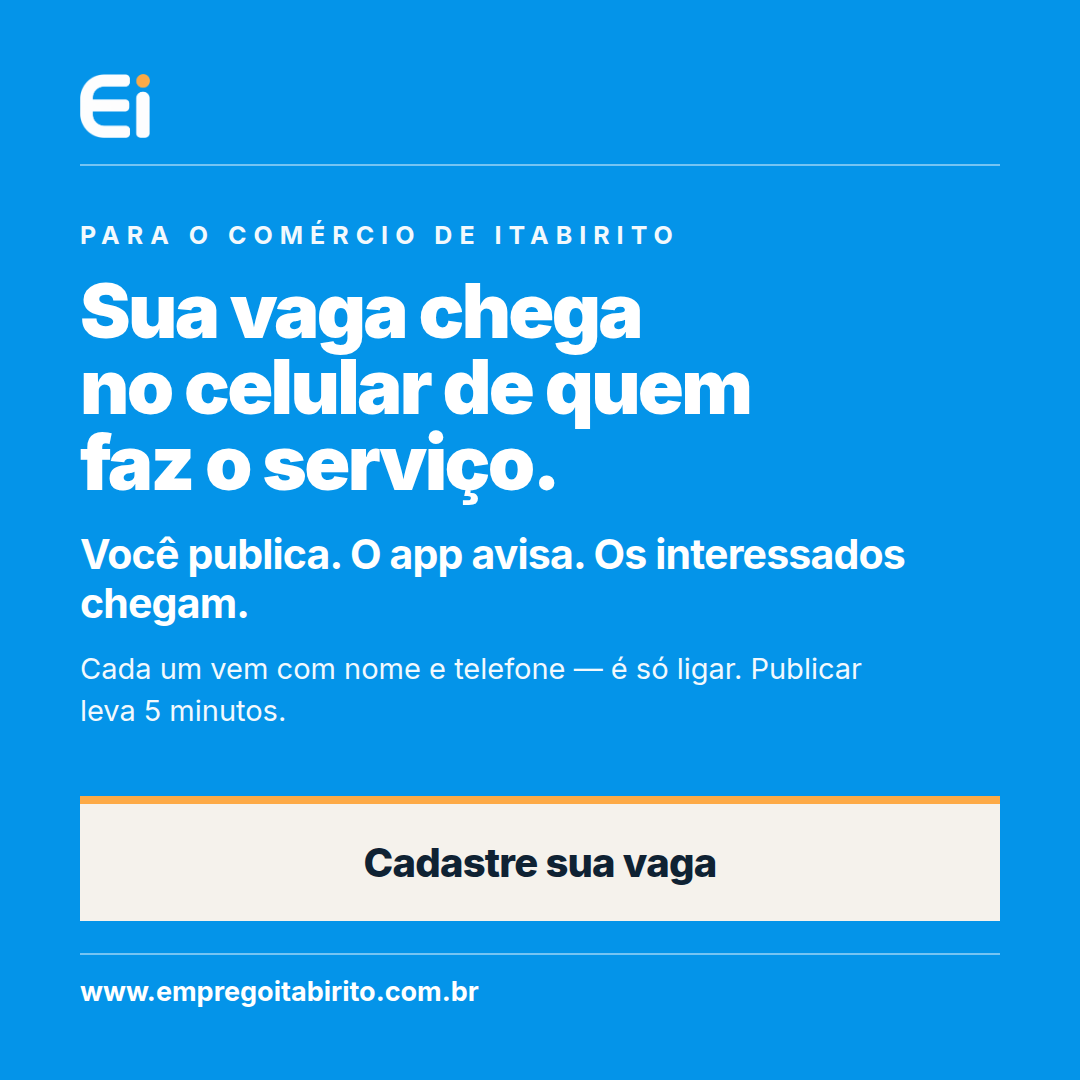
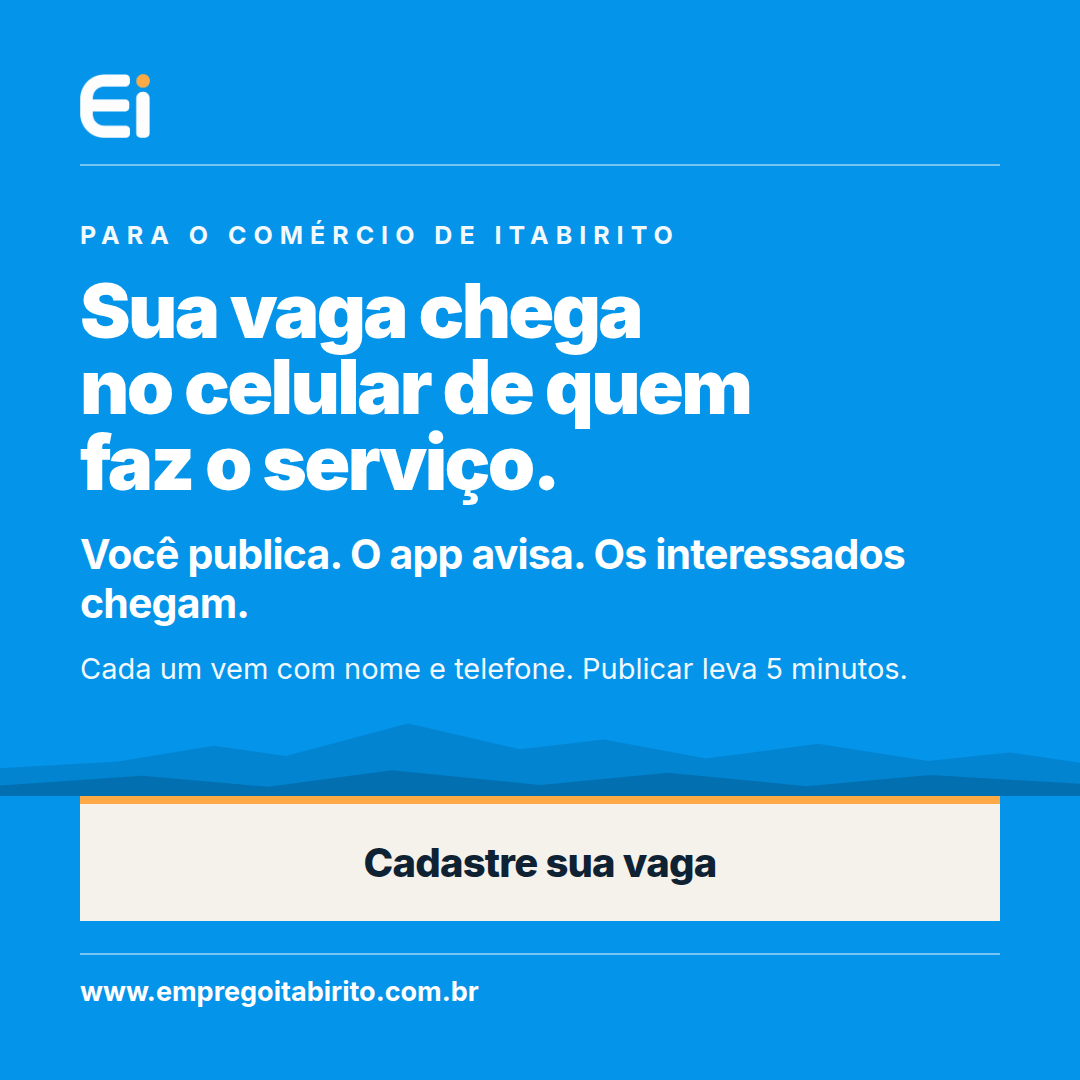
A quarta arte ganha a serra no pé
A dona: "coloque alguma referência de Itabirito." Até aqui a única
referência era a palavra escrita.

Entrou uma silhueta de serra sangrando de borda a borda, com a caixa de
chamada apoiada nela. Azul mais fundo do mesmo tom: é chão, não
ilustração — disputando atenção com o título, seria mais uma coisa para o
olho resolver numa arte que acabou de ser simplificada por esse motivo.

TRÊS TENTATIVAS, E O QUE CADA UMA ENSINOU

1. Cumes iguais e repetidos saíram com cara de zigue-zague, não de morro.
   Serra de verdade tem cume irregular — redesenhada com alturas
   diferentes e um pico dominante.
2. Posta no fundo, em posição absoluta, ficou quase toda escondida atrás
   da caixa: sobrava uma tira de 40px. Passou para o fluxo, encostada
   acima da caixa, que é onde ela vira horizonte.
3. Respeitando a margem do texto, virou faixa decorativa. Horizonte não
   tem margem: sangra os 80px de recuo para cada lado.

E a de sempre: com a serra dentro, a arte TRANSBORDOU — o endereço saiu
cortado embaixo. Medido, ajustado (serra de 104 para 86px, uma linha de
apoio mais curta), e agora são 72px de folga no pé, como nas outras três.

O LEIA-ME REGISTRA QUE A SERRA É GENÉRICA

Não é o Pico do Itabirito traçado de uma foto — é um horizonte de morros
desenhado à mão. Pôr um contorno errado do Pico numa peça que circula na
cidade é pior que não pôr nenhum: quem mora lá reconhece na hora. Fica
escrito para a próxima sessão não "melhorar" isso achando que é o Pico.
[…]

Changed region(s): [[0.0, 0.7028, 1.0, 0.7639], [0.5194, 0.6111, 0.825, 0.6417], [0.0611, 0.6417, 0.275, 0.6722]]

diff --git a/artes/artes.html b/artes/artes.html
@@ -31,6 +31,23 @@ body{background:#333;font-family:Inter,sans-serif;-webkit-font-smoothing:antiali
 .pn{font-size:26px;font-weight:400;line-height:1.35;opacity:.93;margin-top:4px}
 .selo{display:inline-block;background:var(--laranja);color:var(--tinta);font-size:24px;font-weight:800;
       letter-spacing:.13em;text-transform:uppercase;padding:12px 22px;border-radius:999px;margin-bottom:20px}
+/* ── A SERRA, NO PÉ DA ARTE — 12/09 ──────────────────────────────────
+   A dona: "coloque alguma referência de Itabirito."
+
+   Até aqui a única referência era a palavra escrita. Uma cidade cercada
+   de serra se reconhece pelo recorte dela no horizonte antes de ler
+   qualquer nome.
+
+   Fica ATRÁS do conteúdo, num azul mais fundo do mesmo tom: é chão, não
+   ilustração. Se disputasse atenção com o título, viraria mais uma coisa
+   para o olho resolver numa arte que acabou de ser simplificada
+   justamente por isso. */
+/* Sangra até a borda: serra que respeita a margem do texto vira faixa
+   decorativa. Horizonte não tem margem. O recuo negativo é o mesmo valor
+   do padding lateral da arte (80px). */
+.serra{display:block;width:calc(100% + 160px);margin:0 -80px;height:86px}
+/* O pé desta peça não precisa do respiro de cima: a serra é o respiro. */
+.pe-serra{padding-top:0}
 .gigante{font-size:142px;font-weight:900;line-height:.9;letter-spacing:-.045em;padding-top:6px}
 </style>
 
@@ -83,7 +100,7 @@ body{background:#333;font-family:Inter,sans-serif;-webkit-font-smoothing:antiali
   </div>
 </div>
 
-<!-- ══ 4 — o que acontece, dito sem metáfora ══ -->
+<!-- ══ 4 — o que acontece, dito sem metáfora, com a serra no pé ══ -->
 <div class="arte" id="a4">
   <img class="marca" src="file:///home/user/Nuvem-Lorena/apps/profissionais/public/marca-ei.png">
   <div class="fio"></div>
@@ -96,9 +113,17 @@ body{background:#333;font-family:Inter,sans-serif;-webkit-font-smoothing:antiali
          faz o serviço recebe a vaga no celular. -->
     <div class="titulao" style="font-size:76px;text-transform:none">Sua vaga chega<br>no celular de quem<br>faz o serviço.</div>
     <div class="sub" style="margin-top:30px">Você publica. O app avisa. Os interessados chegam.</div>
-    <div class="apoio">Cada um vem com nome e telefone — é só ligar. Publicar leva 5 minutos.</div>
+    <div class="apoio">Cada um vem com nome e telefone. Publicar leva 5 minutos.</div>
   </div>
-  <div class="pe">
+  <div class="pe pe-serra">
+    <svg class="serra" viewBox="0 0 1080 280" preserveAspectRatio="none" aria-hidden="true">
+    <!-- Duas camadas de cumeeira: a de trás mais clara e mais alta, a da
+         frente mais escura. É o que dá profundidade sem desenhar nada
+         reconhecível demais — ver a nota no LEIA-ME sobre não fingir que
+         isto é o retrato do Pico. -->
+    <path fill="#0384d1" d="M0,280 L0,190 L118,168 L214,116 L286,150 L408,44 L520,128 L604,96 L706,158 L818,110 L928,166 L1010,138 L1080,172 L1080,280 Z"/>
+    <path fill="#0270b0" d="M0,280 L0,246 L142,214 L268,250 L392,196 L540,244 L668,204 L806,248 L930,212 L1080,240 L1080,280 Z"/>
+    </svg>
     <div class="cta">Cadastre sua vaga</div>
     <div class="site" style="margin-top:32px">www.empregoitabirito.com.br</div>
   </div>

diff --git a/artes/legendas.md b/artes/legendas.md
@@ -82,6 +82,25 @@ com uma frase sobre vitrine.
 O título agora é literal: o que acontece, na ordem em que acontece.
 Nenhuma figura de linguagem, nenhuma palavra que precise ser traduzida.
 
+### A serra no pé — e o que ela NÃO é
+
+A dona: "coloque alguma referência de Itabirito."
+
+Entrou uma silhueta de serra sangrando de borda a borda, com a caixa de
+chamada apoiada nela. Fica num azul mais fundo do mesmo tom: é chão, não
+ilustração — se disputasse atenção com o título, seria mais uma coisa
+para o olho resolver numa arte que acabou de ser simplificada justamente
+por isso.
+
+**ATENÇÃO para quem for mexer: esta serra é genérica.** Não é o Pico do
+Itabirito traçado de uma foto — é um horizonte de morros desenhado à mão,
+que evoca a região sem afirmar ser um lugar específico. Foi decisão
+consciente: pôr um contorno errado do Pico numa peça que circula na
+cidade é pior que não pôr nenhum, porque quem mora lá reconhece na hora.
+
+Se um dia houver uma foto do Pico para traçar, aí sim vale o desenho de
+verdade — e aí a referência passa a ser reconhecível, não só sugerida.
+
 ### Legenda
 
 Precisa contratar em Itabirito?
